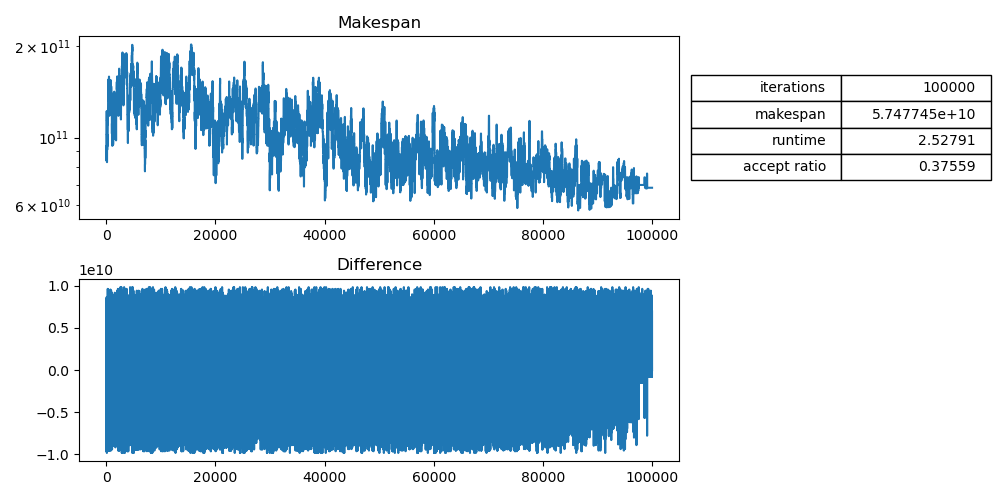
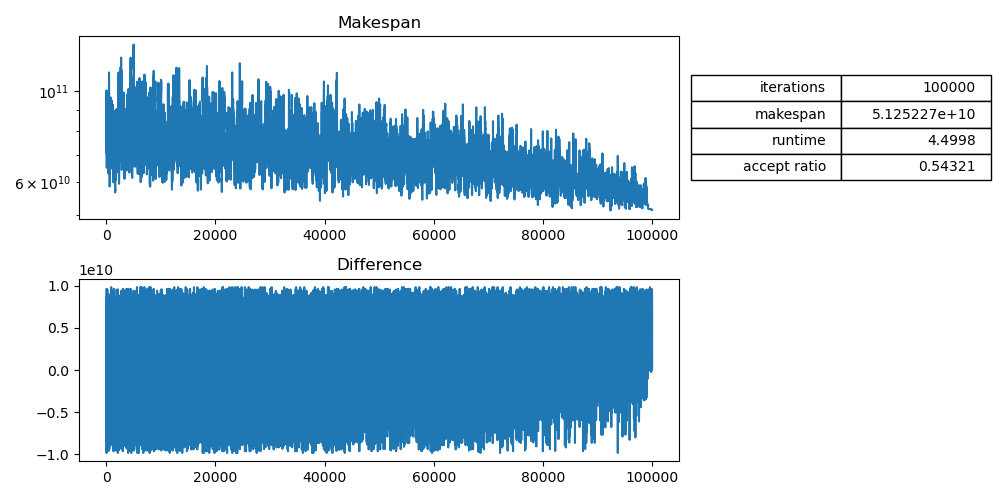
reverted unwanted changes

diff --git a/simann/p_functions.py b/simann/p_functions.py
@@ -21,9 +21,9 @@ def linearBadmoveAccept(difference, temperature, good_accept, bad_accept):
 
 def exponentialDecay(difference, temperature, good_accept, bad_accept):
     """Use an exponential function of the difference."""
-    if difference < 0: # good-move
+    if difference <= 0: # good-move
         # If the improvement is too good. We want to make the algorithm less 'greedy'.
-        return random.random() < math.exp(good_accept / difference)
+        return random.random() < math.exp(difference / good_accept)
     else: # bad-move
         # If the temperature approaches 0, we are getting more careful, so the chance
         # of still accepting gets smaller and smaller.
@@ -34,7 +34,7 @@ def exponentialDecayNonInc(difference, temperature, good_accept, bad_accept):
     """Use an exponential function of the difference."""
     if difference < 0: # good-move
         # If the improvement is too good. We want to make the algorithm less 'greedy'.
-        return random.random() < math.exp(good_accept / difference)
+        return random.random() < math.exp(difference / good_accept)
     else: # bad-move
         # If the temperature approaches 0, we are getting more careful, so the chance
         # of still accepting gets smaller and smaller.

diff --git a/simann/acceptance_comparison.py b/simann/acceptance_comparison.py
@@ -10,14 +10,14 @@ instance = SimulatedAnnealing.fromFile(jobs_file, m)
 # output filename
 output_prefix = "./experiments/accept_exp"
 
-accept_exp1 = instance.start(100000, exponentialDecay, 8e9, 4e10)  
+accept_exp1 = instance.start(100000, exponentialDecay, 8e10, 4e12)  
 accept_exp1.plotResults("{}1.png".format(output_prefix))
 
-accept_exp2 = instance.start(100000, exponentialDecay, 8e8, 4e10)
+accept_exp2 = instance.start(100000, exponentialDecay, 8e10, 4e10)
 accept_exp2.plotResults("{}2.png".format(output_prefix))
 
-accept_exp3 = instance.start(100000, exponentialDecayNonInc, 8e9, 4e10)
+accept_exp3 = instance.start(100000, exponentialDecayNonInc, 8e10, 4e12)
 accept_exp3.plotResults("{}3.png".format(output_prefix))
 
-accept_exp4 = instance.start(100000, exponentialDecayNonInc, 8e8, 4e10)
+accept_exp4 = instance.start(100000, exponentialDecayNonInc, 8e10, 4e10)
 accept_exp4.plotResults("{}4.png".format(output_prefix))
